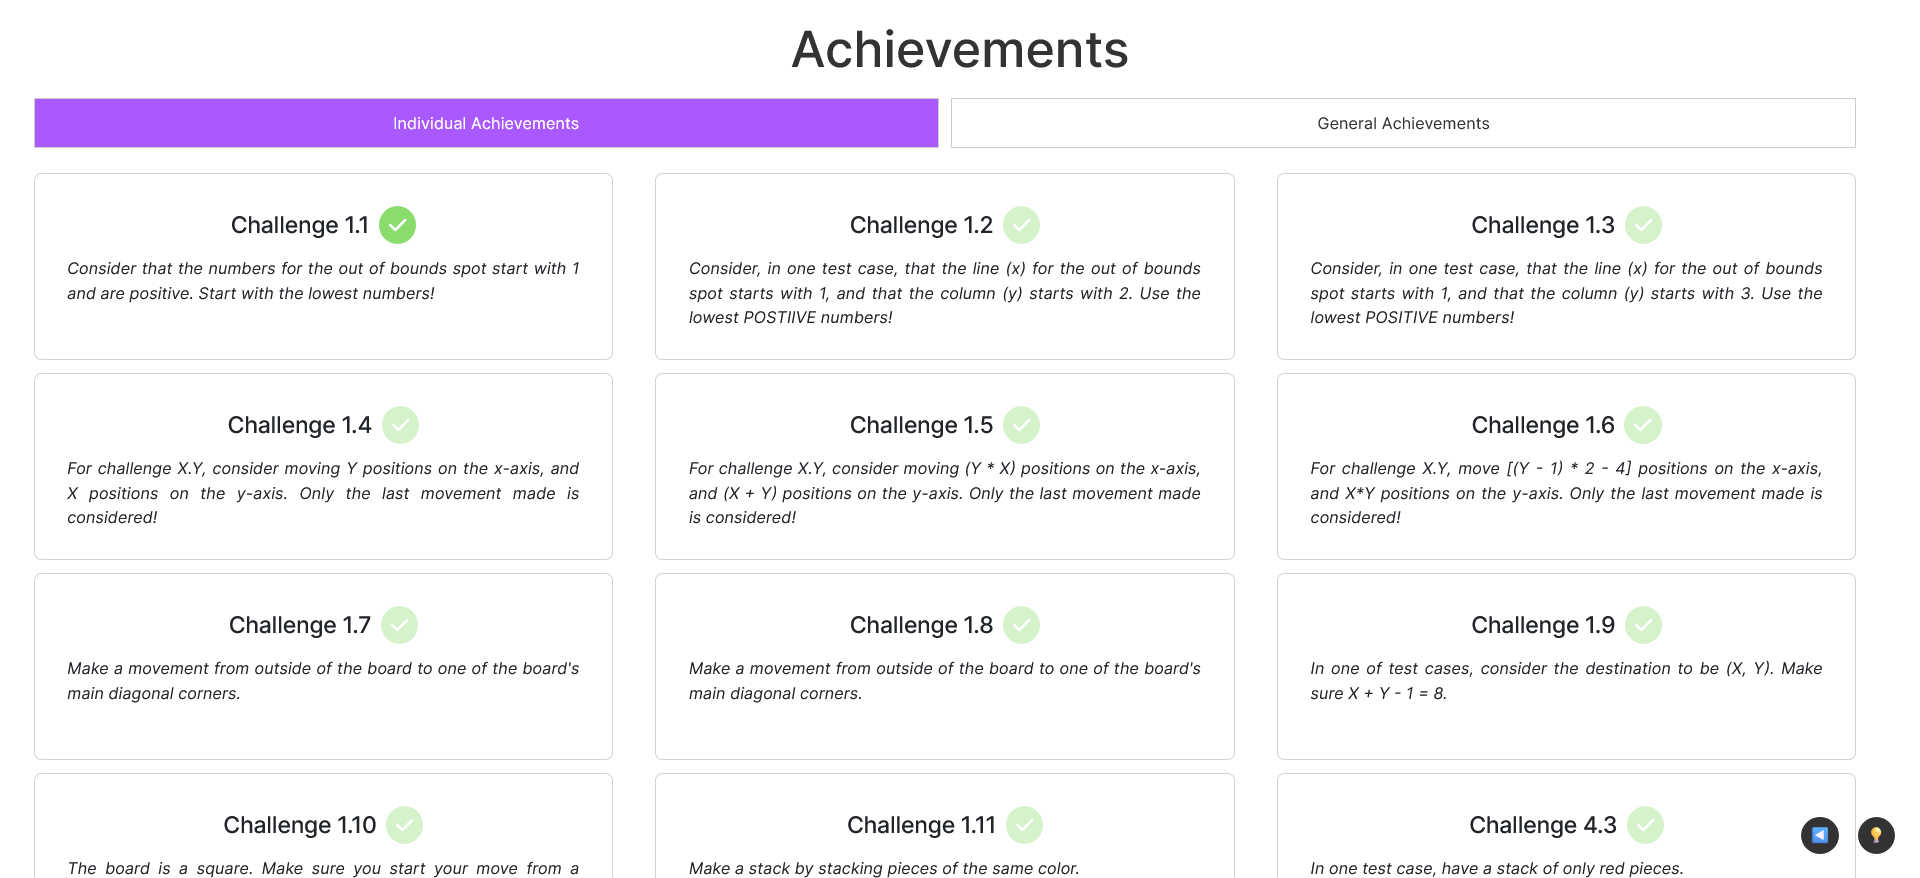
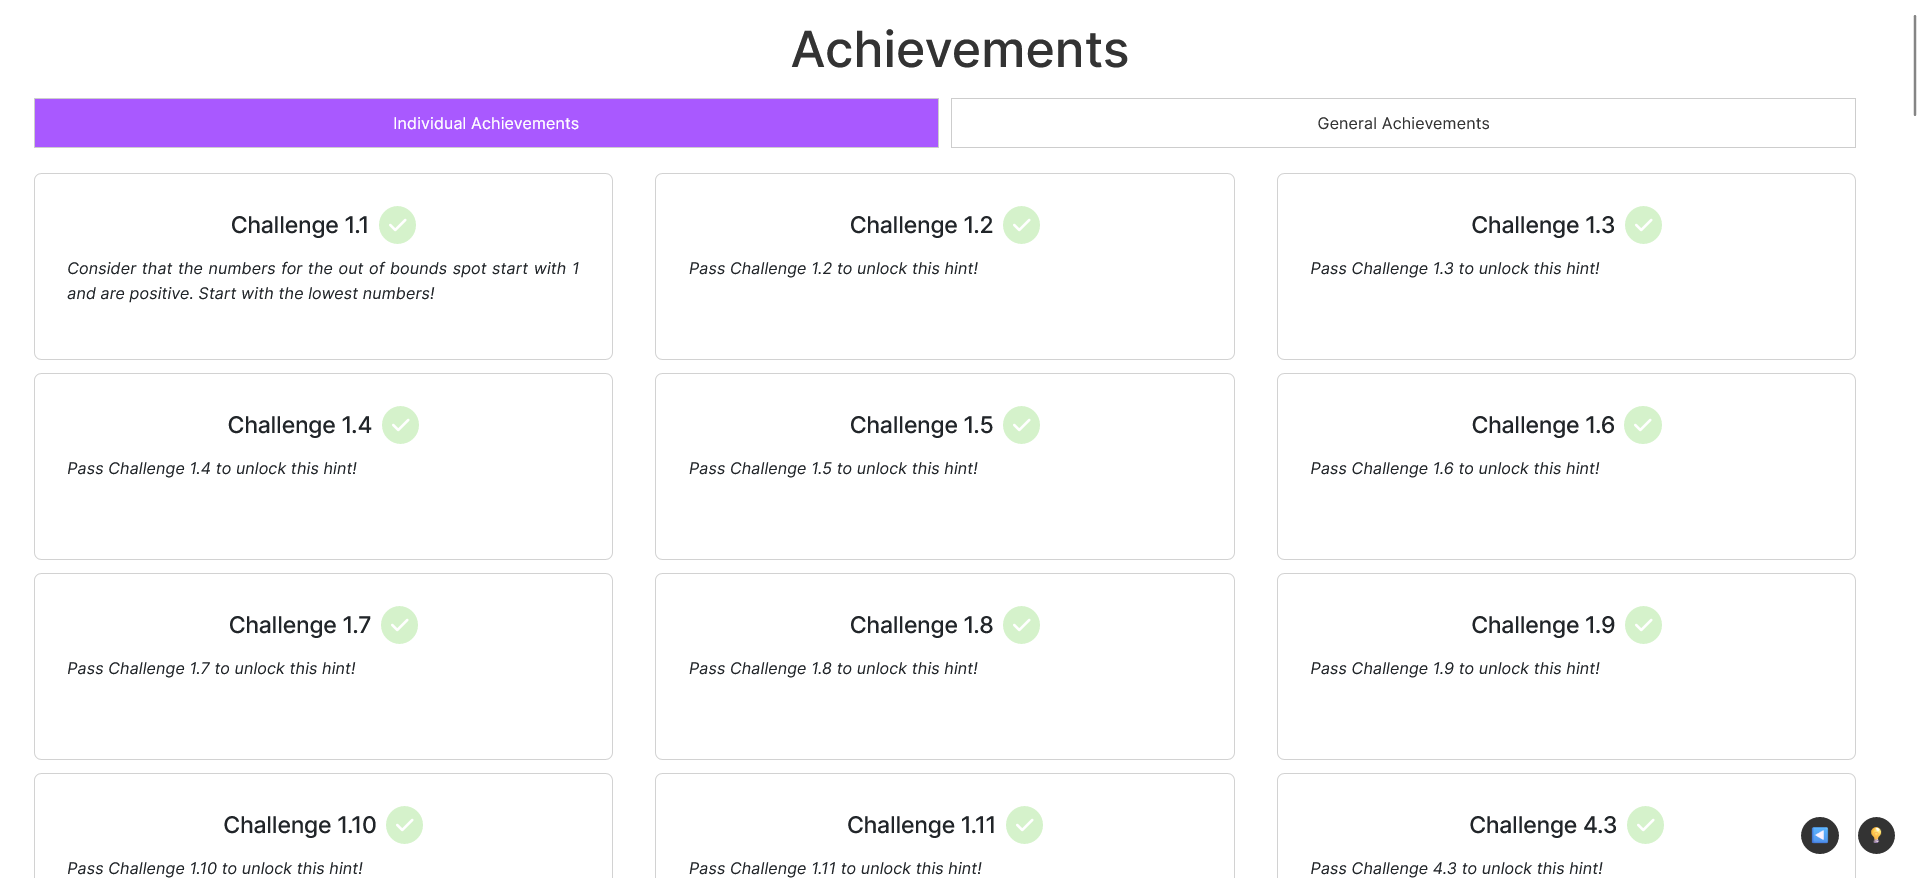
Add multiplayer how to play tab + achievements.
Achievement hint only show for passed challenges (individual achievements).

diff --git a/Prototype/WhiteBoxCapsule/frontend/src/pages/HowToPlay.vue b/Prototype/WhiteBoxCapsule/frontend/src/pages/HowToPlay.vue
@@ -30,6 +30,10 @@ import 'prismjs/plugins/line-highlight/prism-line-highlight.css'
             <button id="guide-button-4" class="col button is-primary is-fullwidth guide-button disabled" v-else style="margin: 0px;">
                 Teacher View
             </button>
+            <button id="guide-button-5" class="col button is-primary is-fullwidth guide-button" style="margin: 0px;"
+                @click="changeTab('multiplayer', '5')">
+                Multiplayer
+            </button>
         </div>
         <div v-if="tab == 'board'" class="display: grid; grid-template-rows: 50% 50%; grid-template-columns: 100%;"
             style="font-size: 12px !important">
@@ -458,6 +462,59 @@ import 'prismjs/plugins/line-highlight/prism-line-highlight.css'
 
 
         </div>
+        <div v-if="tab == 'multiplayer'" style="font-size: 13px !important; justify-content: center;">
+            <div class="row" style="display: grid; grid-template-columns: 1fr 0.75fr; font-size: 16px;">
+                <div class="col">
+
+               
+                <p style="text-align: justify; margin-bottom: 10px;">
+                    The Multiplayer mode is very similar to the single player mode. It just adds a few rules.
+                </p>
+
+                <strong>Multiplayer Rooms</strong>
+                <p style="text-align: justify; margin-bottom: 10px;">
+                    A multiplayer game can only happen in a multiplayer room. They are pretty easy to create.
+                    You can have up to 5 rounds, with 2 or 3 players.
+                </p>
+
+                <p style="text-align: justify; margin-bottom: 10px;">
+                    Note that, if you create a room, you can't "leave" it, only delete it!
+                </p>
+
+
+                <strong style="margin-bottom: 2.5px;">The Rules</strong>
+                <ul style="margin-left: 2.5px; margin-top: 0px; text-align: justify;">
+                        <li>After all players are in the room, the game starts.</li>
+                        <li>The first player is chosen randomly - after this, players are cycled through!</li>
+                        <li>Each turn has a randomly chosen challenge - any challenge the players have not passed can show up!</li>
+                        <li>You must beat your challenge within the provided time.</li>
+                        <li>You can pass your turn once per challenge. If it reaches you again, you will be able to skip the challenge.</li>
+                        <li>Unlike single player mode, you first validate your solution and then submit it with a comment!</li>
+                        <li>You are able to see the challenge another player is given, but you cannot submit an attempt!</li>
+                        <li>After a player successfully submits an attempt, you will be shown their submitted solution.</li>
+                        <li>The player who scores the most points in the room wins (ties with 3 players are possible)!</li>
+                </ul>
+                
+
+                <strong>Rewards</strong>
+                <p style="text-align: justify; margin-bottom: 10px;">
+                To encourage playing in this mode with other users, there are rewards given per multiplayer game.
+                </p>
+                <p style="text-align: justify; margin-bottom: 10px;">
+                    Both the winner(s) AND participants are rewarded.
+                </p>
+                <p style="text-align: justify; margin-bottom: 10px;">
+                    There are also a few special rewards out in the wild... Strive to ACHIEVE them.
+                </p>
+                </div>
+                <div class="col">
+                    <img src="../assets/pictures/multiplayer_rooms_1.png" style="width: 100%;" />
+                    <img src="../assets/pictures/multiplayer_rooms_2.png" style="width: 100%;" />
+                </div>
+            </div>
+
+
+        </div>
     </div>
 </template>
 
@@ -504,7 +561,8 @@ export default defineComponent({
             var button_1 = document.getElementById('guide-button-1'),
                 button_2 = document.getElementById('guide-button-2'),
                 button_3 = document.getElementById('guide-button-3'),
-                button_4 = document.getElementById('guide-button-4')
+                button_4 = document.getElementById('guide-button-4'),
+                button_5 = document.getElementById('guide-button-5')
 
             if (value == 'code_coverage')
                 button_3.classList.toggle('guide-button-selected')
@@ -514,6 +572,8 @@ export default defineComponent({
                 button_2.classList.toggle('guide-button-selected')
             else if (value == 'teacher_view')
                 button_4.classList.toggle('guide-button-selected')
+            else if (value == 'multiplayer')
+                button_5.classList.toggle('guide-button-selected')
 
             if (this.tab == 'code_coverage') {
                 button_3.classList.toggle('guide-button-selected')
@@ -523,6 +583,8 @@ export default defineComponent({
                 button_2.classList.toggle('guide-button-selected')
             } else if (this.tab == 'teacher_view') {
                 button_4.classList.toggle('guide-button-selected')
+            } else if (this.tab == 'multiplayer') {
+                button_5.classList.toggle('guide-button-selected')
             }
 
             this.tab = value

diff --git a/Prototype/WhiteBoxCapsule/frontend/src/pages/Achievements.vue b/Prototype/WhiteBoxCapsule/frontend/src/pages/Achievements.vue
@@ -50,8 +50,7 @@ import CommentModal from '../components/modals/CommentModal.vue'
             <div class="row"
                 style="width: 100%; display: grid; grid-template-columns: repeat(3, 1.5fr); grid-gap: 10px;">
                 <div class="col" v-for="challenge in challenges" :key="challenge.id">
-                    <ChallengeAchievementCard :challenge="challenge"
-                        :unlocked="user_individual_achievements.includes(challenge.id)" />
+                    <ChallengeAchievementCard :challenge="challenge" :unlocked="user_individual_achievements.includes(challenge.id)" :passed="user_passed_challenges.includes(challenge.id)" />
                 </div>
             </div>
         </div>
@@ -85,6 +84,7 @@ export default {
             general_achievements: [],
             user_general_achievements: [],
             user_individual_achievements: [],
+            user_passed_challenges: [],
             individual: Boolean
         }
     },
@@ -110,6 +110,7 @@ export default {
         await this.getChallenges()
         await this.getIndividualAchievements()
         await this.getGeneralAchievements()
+        await this.getPassedChallenges()
 
         this.individual = true
 
@@ -124,6 +125,14 @@ export default {
         async getChallenges() {
             await this.$axios.get(this.$api_link + '/challenges', this.auth.config).then((response) => {
                 this.challenges = response.data
+            }).catch((error) => {
+                this.$router.push({ name: 'error', params: { afterCode: '_', code: error.response.status.toString(), message: error.response.statusText } })
+            })
+        },
+
+        async getPassedChallenges() {
+            await this.$axios.get(this.$api_link + '/users/' + this.auth.user.id + '/passed-challenges/', this.auth.config).then((response) => {
+                this.user_passed_challenges = response.data
             }).catch((error) => {
                 this.$router.push({ name: 'error', params: { afterCode: '_', code: error.response.status.toString(), message: error.response.statusText } })
             })

diff --git a/Prototype/WhiteBoxCapsule/frontend/src/components/ChallengeAchievementCard.vue b/Prototype/WhiteBoxCapsule/frontend/src/components/ChallengeAchievementCard.vue
@@ -12,7 +12,8 @@
                     <font-awesome-icon icon="check" color="white" />
                 </div>
             </span>
-            <p class="card-text" style="font-style: italic; text-align: justify; font-size: 13px;">{{ challenge.achievement_hint }}</p>
+            <p class="card-text" v-if="passed" style="font-style: italic; text-align: justify; font-size: 13px;">{{ challenge.achievement_hint }}</p>
+            <p class="card-text" v-else style="font-style: italic; text-align: justify; font-size: 13px;">Pass {{challenge.name.split(':')[0]}} to unlock this hint!</p>
         </div>
         
     </div>
@@ -26,7 +27,11 @@ export default {
 
     props: {
         challenge: Object,
-        unlocked: Boolean
+        unlocked: Boolean,
+        passed: {
+            type: Boolean,
+            default: true
+        }
     }
 }
 </script>
